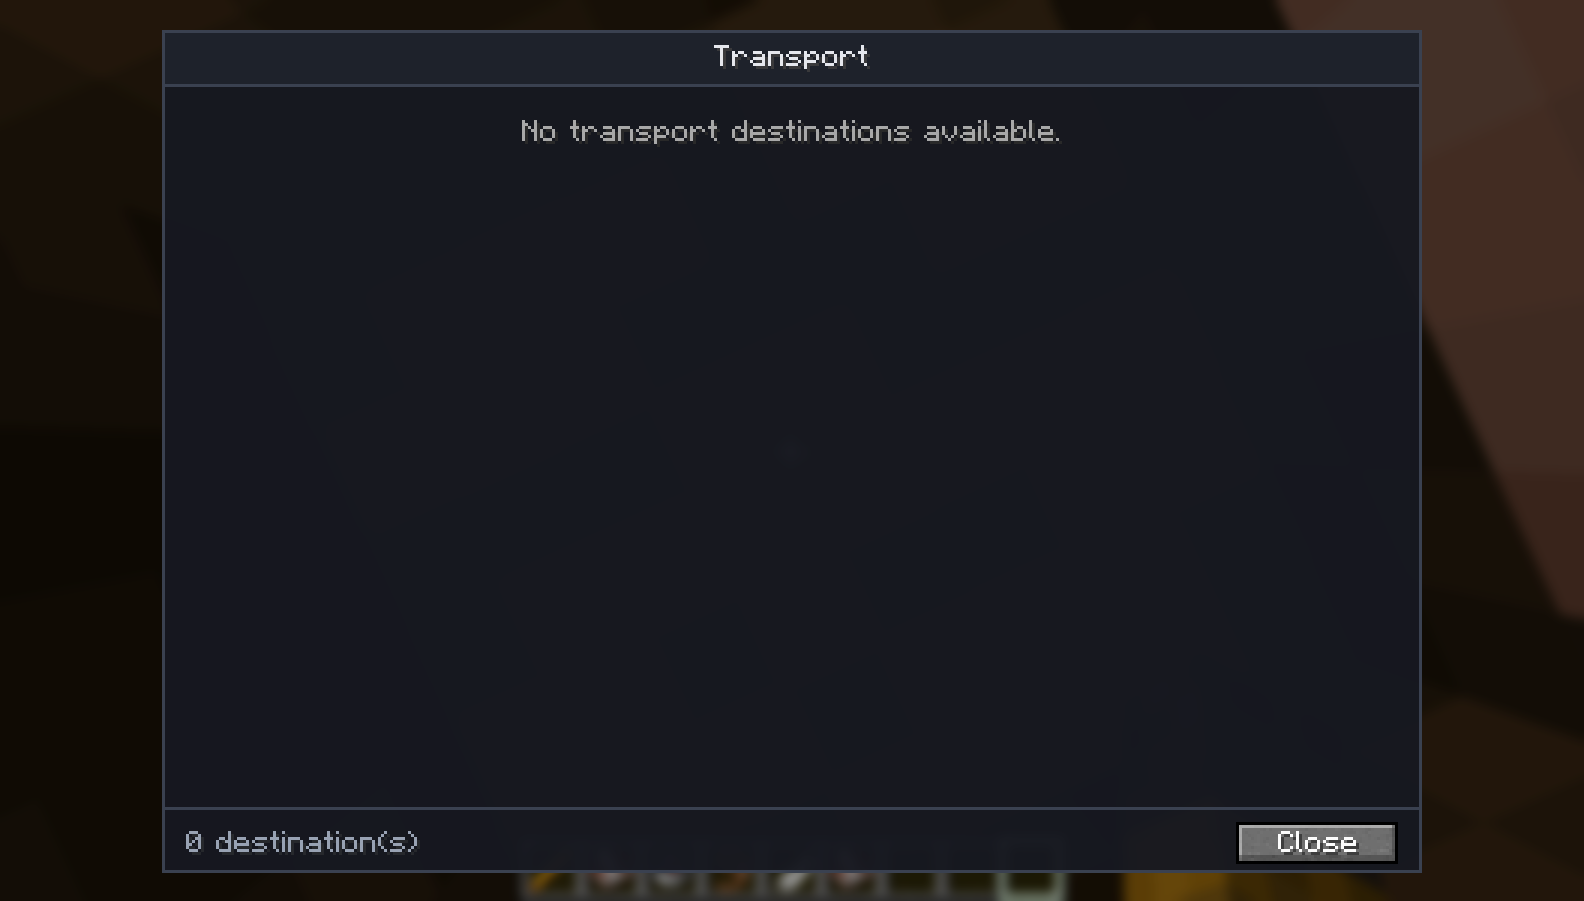
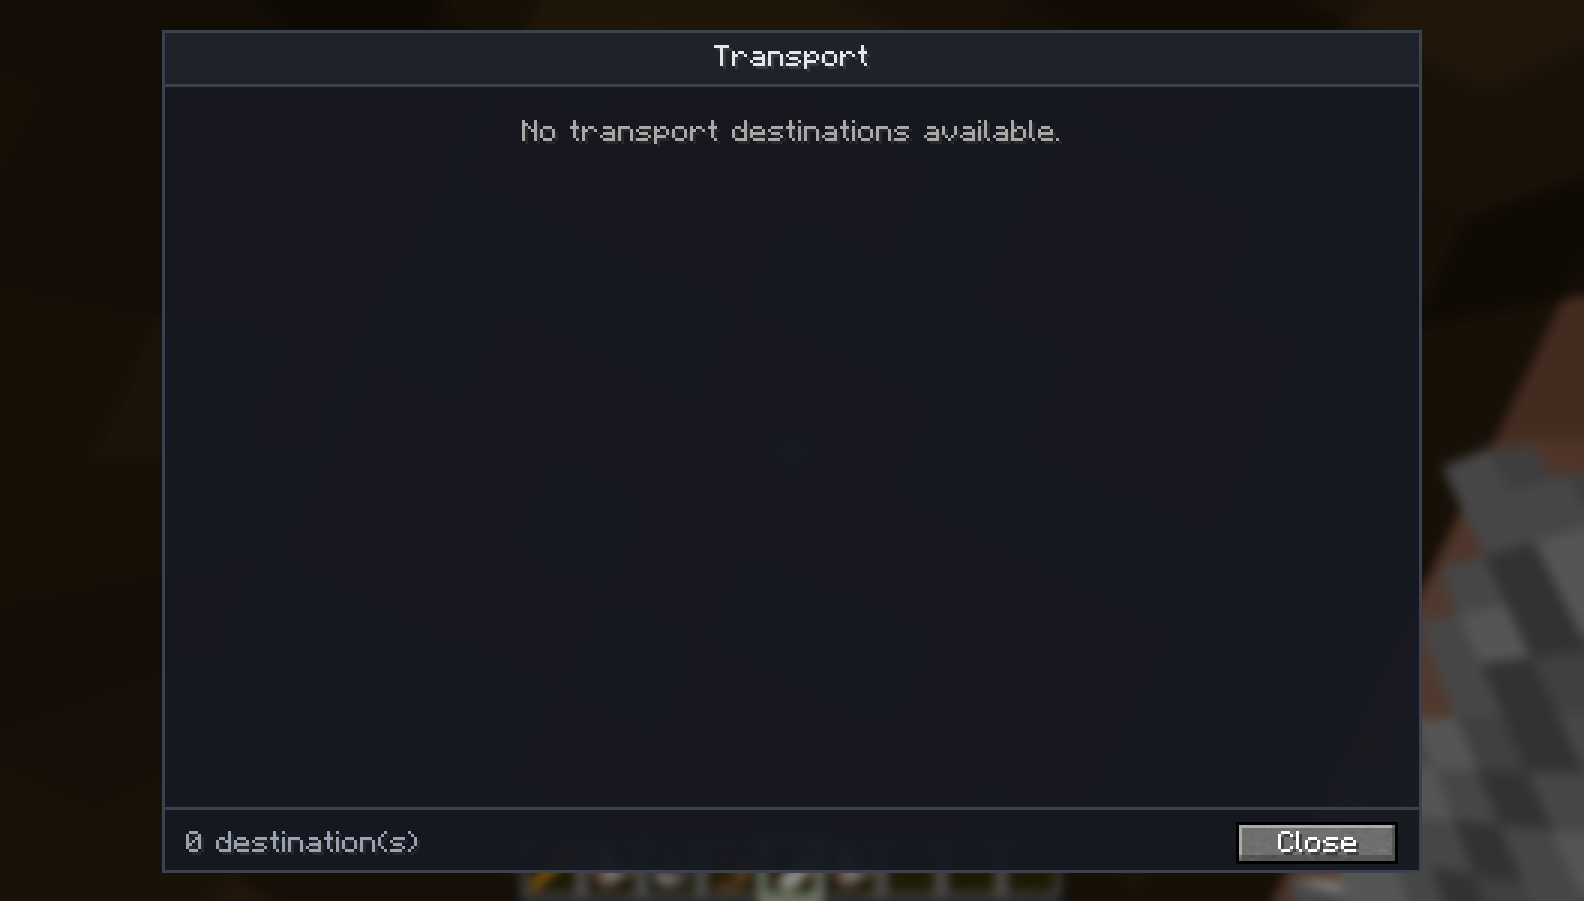
fix(ui): harden transport hit regions and chrome layout after review
- Exclude scroll-button column and dead band from row click region so
  scroll gestures can never dispatch ServerboundTransportSelectPayload
- Re-clamp scrollOffset on resize so the list can't blank out
- Scissor row text to the content panel to prevent overflow
- Harden UiScreen footer action layout/registration ordering

Generated with [Devin](https://devin.ai)

Changed region(s): [[0.7115, 0.0, 1.0, 1.0], [0.6187, 0.9634, 0.6806, 1.0], [0.464, 0.9634, 0.5259, 1.0]]

diff --git a/src/main/java/com/storynpcs/client/ui/UiScreen.java b/src/main/java/com/storynpcs/client/ui/UiScreen.java
@@ -39,11 +39,14 @@ public abstract class UiScreen extends Screen {
 
     @Override
     protected final void init() {
-        panelW = Math.min(this.width - UiTheme.PANEL_INSET * 2, UiTheme.PANEL_MAX_W);
-        panelH = Math.min(this.height - UiTheme.PANEL_INSET * 2, UiTheme.PANEL_MAX_H);
+        panelW = Math.max(UiTheme.PAD_XL * 2,
+                Math.min(this.width - UiTheme.PANEL_INSET * 2, UiTheme.PANEL_MAX_W));
+        panelH = Math.max(UiTheme.HEADER_H + UiTheme.FOOTER_H + UiTheme.PAD_S * 2 + 1,
+                Math.min(this.height - UiTheme.PANEL_INSET * 2, UiTheme.PANEL_MAX_H));
         panelX = (this.width - panelW) / 2;
         panelY = (this.height - panelH) / 2;
         footerActions.clear();
+        status = null;
         initContent();
         layoutFooter();
     }
@@ -54,7 +57,11 @@ public abstract class UiScreen extends Screen {
     /** Body rendering between header and footer; default is empty. */
     protected void renderContent(GuiGraphics graphics, int mouseX, int mouseY, float partialTick) {}
 
-    /** Register a footer button; laid out right-aligned in the footer row. */
+    /**
+     * Register a footer button; laid out right-aligned in the footer row.
+     * Valid only during {@link #initContent} — actions added after {@link #init}
+     * completes are never laid out and are discarded on the next rebuild.
+     */
     protected void addFooterAction(Component label, Button.OnPress onPress) {
         footerActions.add(new FooterAction(label, onPress));
     }
@@ -70,6 +77,8 @@ public abstract class UiScreen extends Screen {
         for (int i = footerActions.size() - 1; i >= 0; i--) {
             FooterAction action = footerActions.get(i);
             int w = Math.max(54, this.font.width(action.label()) + UiTheme.PAD_L * 2);
+            w = Math.min(w, x - contentLeft());
+            if (w < 20) break;
             x -= w;
             addRenderableWidget(Button.builder(action.label(), action.onPress())
                     .bounds(x, by, w, UiTheme.BUTTON_H).build());
@@ -92,8 +101,11 @@ public abstract class UiScreen extends Screen {
         renderChrome(graphics);
         renderContent(graphics, mouseX, mouseY, partialTick);
         suppressBackground = true;
-        super.render(graphics, mouseX, mouseY, partialTick);
-        suppressBackground = false;
+        try {
+            super.render(graphics, mouseX, mouseY, partialTick);
+        } finally {
+            suppressBackground = false;
+        }
     }
 
     /**

diff --git a/src/main/java/com/storynpcs/client/gui/player/PlayerTransportScreen.java b/src/main/java/com/storynpcs/client/gui/player/PlayerTransportScreen.java
@@ -37,9 +37,12 @@ public class PlayerTransportScreen extends UiScreen {
     private int maxVisible() {
         return Math.max(1, (contentBottom() - contentTop()) / UiTheme.ROW_H);
     }
+    /** Right edge of the clickable row band — leaves the scroll column clear. */
+    private int rowRight() { return contentRight() - 18; }
 
     @Override
     protected void initContent() {
+        scrollOffset = Math.min(scrollOffset, Math.max(0, rows().size() - maxVisible()));
         setStatus(Component.literal(rows().size() + " destination(s)"));
         if (rows().size() > maxVisible()) {
             addRenderableWidget(Button.builder(Component.literal("^"),
@@ -56,6 +59,8 @@ public class PlayerTransportScreen extends UiScreen {
     protected void renderContent(GuiGraphics graphics, int mouseX, int mouseY, float partialTick) {
         var rows = rows();
         int y = contentTop();
+        graphics.enableScissor(contentLeft(), contentTop(),
+                rowRight(), contentTop() + maxVisible() * UiTheme.ROW_H);
         for (int i = scrollOffset; i < Math.min(rows.size(), scrollOffset + maxVisible()); i++) {
             TransportRow row = rows.get(i);
             if (row == null) { y += UiTheme.ROW_H; continue; }
@@ -68,6 +73,7 @@ public class PlayerTransportScreen extends UiScreen {
                     contentLeft(), y, UiTheme.TEXT);
             y += UiTheme.ROW_H;
         }
+        graphics.disableScissor();
         if (rows.isEmpty()) {
             graphics.drawCenteredString(this.font,
                     "§7No transport destinations available.",
@@ -77,11 +83,12 @@ public class PlayerTransportScreen extends UiScreen {
 
     @Override
     public boolean mouseClicked(double mouseX, double mouseY, int button) {
-        if (button == 0 && mouseX >= contentLeft() && mouseX <= contentRight()
-                && mouseY >= contentTop() && mouseY <= contentBottom()) {
+        if (button == 0 && mouseX >= contentLeft() && mouseX < rowRight()
+                && mouseY >= contentTop()
+                && mouseY < contentTop() + maxVisible() * UiTheme.ROW_H) {
             int index = scrollOffset + (int) ((mouseY - contentTop()) / UiTheme.ROW_H);
             var rows = rows();
-            if (index >= 0 && index < rows.size()) {
+            if (index < rows.size()) {
                 var row = rows.get(index);
                 if (row != null && row.unlocked()) {
                     PacketDistributor.sendToServer(new ServerboundTransportSelectPayload(
